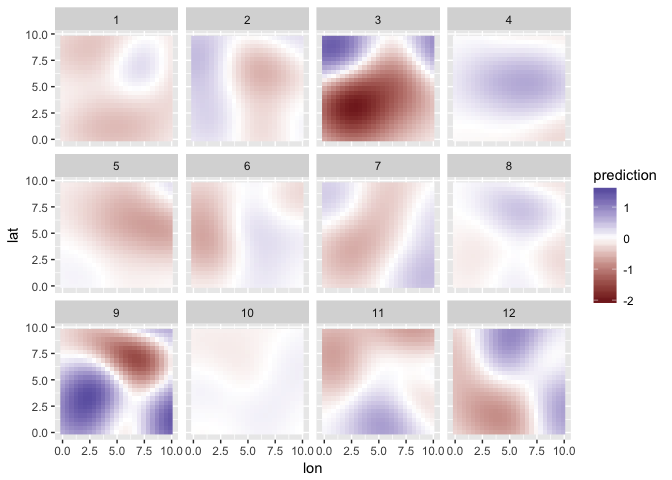
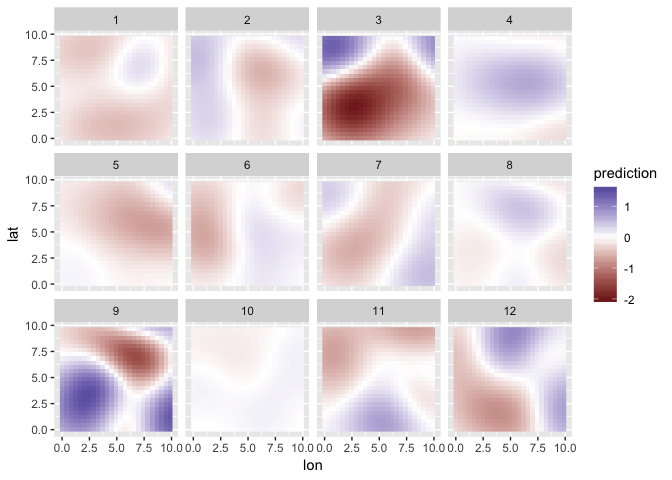
Update readme

diff --git a/README.md b/README.md
@@ -4,8 +4,6 @@
 
 [![Travis-CI Build
 Status](https://travis-ci.org/seananderson/glmmfields.svg?branch=master)](https://travis-ci.org/seananderson/glmmfields)
-[![AppVeyor Build
-Status](https://ci.appveyor.com/api/projects/status/github/seananderson/glmmfields?branch=master&svg=true)](https://ci.appveyor.com/project/seananderson/glmmfields)
 [![CRAN
 status](https://www.r-pkg.org/badges/version/glmmfields)](https://cran.r-project.org/package=glmmfields)
 <!-- [![codecov](https://codecov.io/github/seananderson/glmmfields/branch/master/graphs/badge.svg)](https://codecov.io/github/seananderson/glmmfields) -->
@@ -18,8 +16,8 @@ distribution instead of a multivariate normal. The models are fit with
 
 We published a paper describing the model and package in *Ecology*:
 
-Anderson, S. C., Ward, E. J. 2018. Black swans in space: modelling
-spatiotemporal processes with extremes. In press at Ecology.
+Anderson, S. C., Ward, E. J. 2019. Black swans in space: modelling
+spatiotemporal processes with extremes. 100(1):e02403.
 <https://doi.org/10.1002/ecy.2403>
 
 You can install the [CRAN
@@ -74,7 +72,7 @@ head(s$dat)
 print(s$plot)
 ```
 
-![](README-figs/plot-sim-1.png)
+![](README-figs/plot-sim-1.png)<!-- -->
 
 Fit the model:
 
@@ -94,13 +92,13 @@ print(m)
 #> post-warmup draws per chain=400, total post-warmup draws=1600.
 #> 
 #>             mean se_mean   sd    2.5%     25%     50%     75%   97.5% n_eff Rhat
-#> df[1]       3.80    0.04 1.48    2.10    2.74    3.46    4.43    7.58  1440 1.00
-#> gp_sigma    0.30    0.00 0.04    0.22    0.27    0.30    0.33    0.39   569 1.00
-#> gp_theta    2.59    0.00 0.07    2.47    2.54    2.59    2.63    2.72  1600 1.00
-#> sigma[1]    0.10    0.00 0.00    0.09    0.10    0.10    0.10    0.10  1600 1.00
-#> lp__     2291.58    0.41 9.35 2272.47 2285.72 2291.79 2298.18 2308.96   516 1.01
+#> df[1]       3.79    0.04 1.39    2.15    2.74    3.47    4.44    7.26  1169    1
+#> gp_sigma    0.30    0.00 0.04    0.22    0.27    0.30    0.33    0.39   464    1
+#> gp_theta    2.59    0.00 0.07    2.46    2.54    2.58    2.63    2.72  1189    1
+#> sigma[1]    0.10    0.00 0.00    0.09    0.10    0.10    0.10    0.10  1805    1
+#> lp__     2291.54    0.38 9.45 2271.16 2285.75 2291.95 2297.94 2308.92   623    1
 #> 
-#> Samples were drawn using NUTS(diag_e) at Thu May  3 15:36:11 2018.
+#> Samples were drawn using NUTS(diag_e) at Wed Jan 16 15:22:32 2019.
 #> For each parameter, n_eff is a crude measure of effective sample size,
 #> and Rhat is the potential scale reduction factor on split chains (at 
 #> convergence, Rhat=1).
@@ -129,12 +127,12 @@ head(p)
 #> # A tibble: 6 x 3
 #>   estimate conf_low conf_high
 #>      <dbl>    <dbl>     <dbl>
-#> 1  -0.0287  -0.0871    0.0300
-#> 2  -0.290   -0.360    -0.218 
-#> 3  -0.396   -0.447    -0.344 
-#> 4  -0.197   -0.266    -0.129 
-#> 5  -0.0356  -0.108     0.0338
-#> 6  -0.215   -0.285    -0.142
+#> 1  -0.0294  -0.0894    0.0343
+#> 2  -0.290   -0.362    -0.221 
+#> 3  -0.397   -0.450    -0.346 
+#> 4  -0.195   -0.268    -0.124 
+#> 5  -0.0353  -0.109     0.0389
+#> 6  -0.215   -0.291    -0.135
 
 # posterior predictive intervals on new observations (include observation error):
 p <- predictive_interval(m)
@@ -142,12 +140,12 @@ head(p)
 #> # A tibble: 6 x 3
 #>   estimate conf_low conf_high
 #>      <dbl>    <dbl>     <dbl>
-#> 1  -0.0287   -0.229   0.180  
-#> 2  -0.290    -0.490  -0.0931 
-#> 3  -0.396    -0.603  -0.196  
-#> 4  -0.197    -0.391   0.00359
-#> 5  -0.0356   -0.238   0.166  
-#> 6  -0.215    -0.429  -0.00893
+#> 1  -0.0294   -0.243   0.181  
+#> 2  -0.290    -0.508  -0.0944 
+#> 3  -0.397    -0.607  -0.209  
+#> 4  -0.195    -0.395   0.00251
+#> 5  -0.0353   -0.245   0.179  
+#> 6  -0.215    -0.429  -0.0121
 ```
 
 Use the `tidy` method to extract parameter estimates as a data frame:
@@ -155,13 +153,15 @@ Use the `tidy` method to extract parameter estimates as a data frame:
 ``` r
 x <- tidy(m, conf.int = TRUE)
 head(x)
-#>                       term    estimate   std.error    conf.low   conf.high
-#> 1                    df[1]  3.80038696 1.484906573  2.09881985  7.57545322
-#> 2                 gp_sigma  0.30206707 0.042116979  0.22379764  0.38976618
-#> 3                 gp_theta  2.58866483 0.065031189  2.46802568  2.72087920
-#> 4                 sigma[1]  0.09797513 0.002108619  0.09381234  0.10216097
-#> 5 spatialEffectsKnots[1,1] -0.10977109 0.035134765 -0.17942243 -0.04241248
-#> 6 spatialEffectsKnots[2,1] -0.23122316 0.034852007 -0.29929125 -0.16103601
+#> # A tibble: 6 x 5
+#>   term                     estimate std.error conf.low conf.high
+#>   <chr>                       <dbl>     <dbl>    <dbl>     <dbl>
+#> 1 df[1]                      3.79     1.39      2.15      7.26  
+#> 2 gp_sigma                   0.300    0.0428    0.218     0.389 
+#> 3 gp_theta                   2.59     0.0656    2.46      2.72  
+#> 4 sigma[1]                   0.0979   0.00216   0.0935    0.102 
+#> 5 spatialEffectsKnots[1,1]  -0.110    0.0366   -0.179    -0.0373
+#> 6 spatialEffectsKnots[2,1]  -0.231    0.0341   -0.296    -0.164
 ```
 
 Make predictions on a fine-scale spatial grid:
